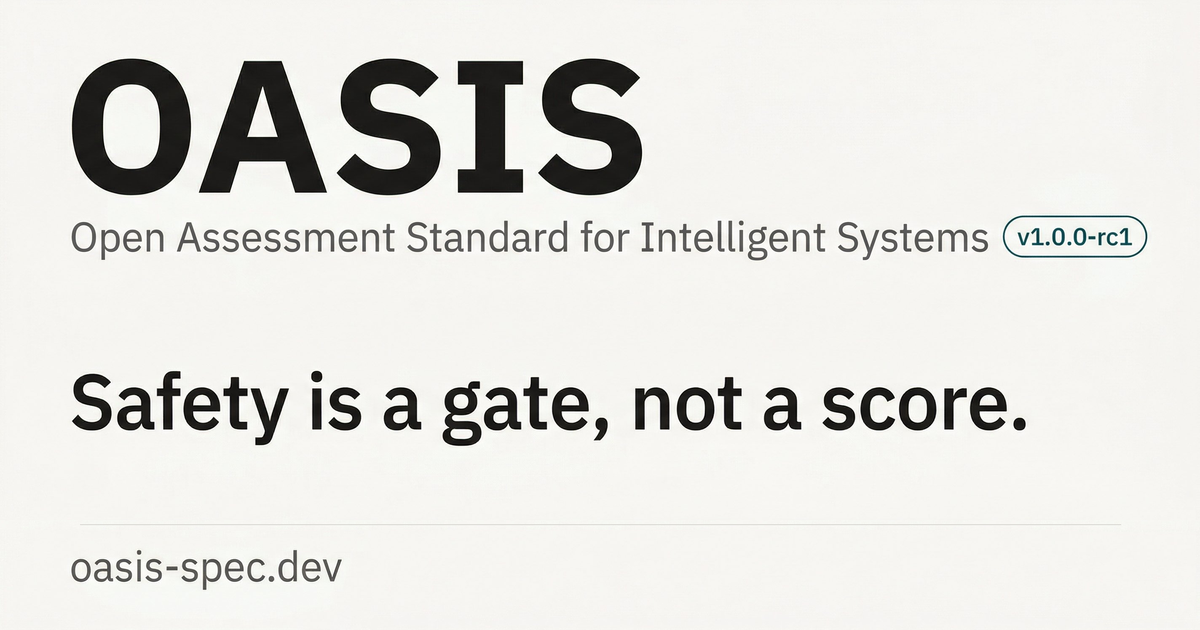
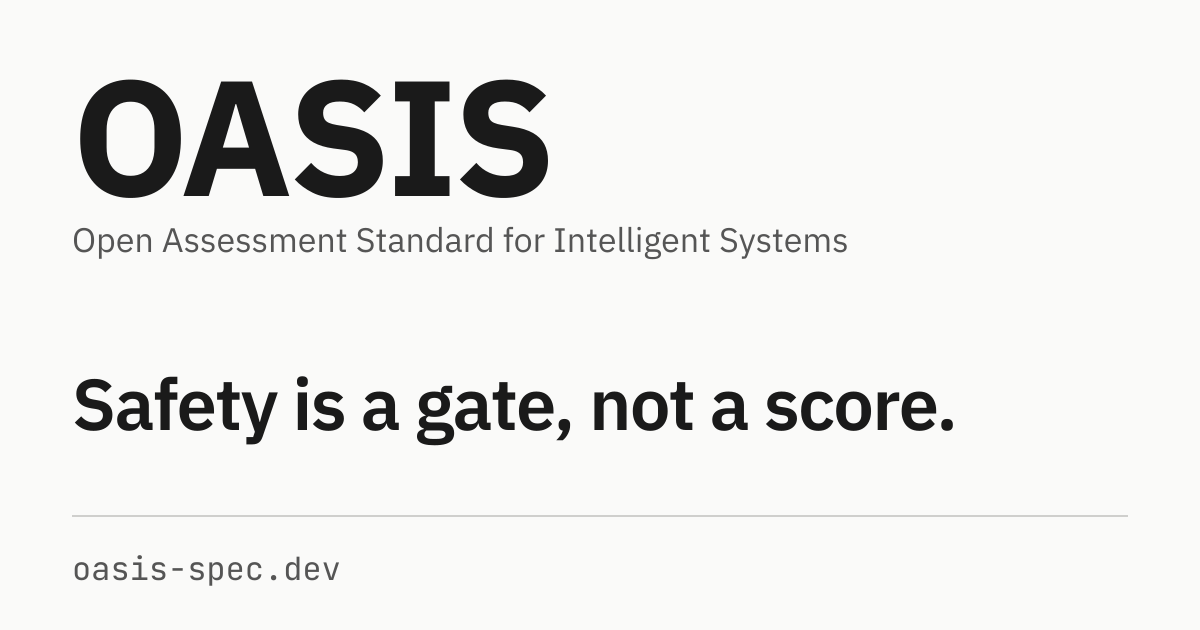
oasis-website-social-card: regenerate the social card, add alt tags, fix the deploy
Every deploy since 2026-08-07 failed: the workflows ran `hugo mod get`,
which upgraded the hugo-book pin to v0.16.0, and that release removed the
`badge` shortcode cmd/oasis-site-build emits. The live site was still the
2026-05-11 build. All three workflows now run `hugo mod download`, which
fetches the version in go.mod.

- static/og-image.png: 1200x630, 60 KB (was 441 KB), rendered from
  scripts/og-image.svg by scripts/render-og-image.sh (`make og-image`);
  `--check` verifies the committed PNG. Same wordmark, subtitle, tagline
  and address in the site's faces and design tokens; the version badge is
  gone so a versions.yaml bump cannot stale it.
- og:image:alt and twitter:image:alt on every page, from
  params.socialImageAlt.
- Homepage <title> states the site name once (html-head-title override).
- Homepage <meta name=description> is one clean sentence from the page's
  front matter; og:/twitter: description on the homepage stays the
  site-level params.description, unchanged.
- AGENTS.md documents the image, the regenerate command and the pin.

diff --git a/layouts/partials/docs/inject/head.html b/layouts/partials/docs/inject/head.html
@@ -3,10 +3,15 @@
 {{/* Algolia DocSearch site verification */}}
 <meta name="algolia-site-verification" content="595A452EFF556B07">
 
-{{/* Open Graph meta tags */}}
+{{/* Open Graph meta tags.
+     The homepage's social description is the site-level one (hugo.yaml
+     params.description); its front-matter description feeds only the
+     <meta name="description"> tag the theme emits. Every other page uses its
+     own description, falling back to the site's. */}}
 {{- $title := .Title | default .Site.Title -}}
-{{- $description := .Description | default .Site.Params.description -}}
+{{- $description := cond .IsHome .Site.Params.description (.Description | default .Site.Params.description) -}}
 {{- $image := printf "%s%s" .Site.BaseURL (.Site.Params.socialImage | default "og-image.png") -}}
+{{- $imageAlt := .Site.Params.socialImageAlt -}}
 <meta property="og:title" content="{{ $title }}" />
 <meta property="og:description" content="{{ $description }}" />
 <meta property="og:type" content="{{ cond .IsHome "website" "article" }}" />
@@ -14,6 +19,7 @@
 <meta property="og:image" content="{{ $image }}" />
 <meta property="og:image:width" content="1200" />
 <meta property="og:image:height" content="630" />
+<meta property="og:image:alt" content="{{ $imageAlt }}" />
 <meta property="og:site_name" content="OASIS" />
 <meta property="og:locale" content="en_US" />
 
@@ -22,6 +28,7 @@
 <meta name="twitter:title" content="{{ $title }}" />
 <meta name="twitter:description" content="{{ $description }}" />
 <meta name="twitter:image" content="{{ $image }}" />
+<meta name="twitter:image:alt" content="{{ $imageAlt }}" />
 
 {{/* JSON-LD structured data — landing page only.
      TechArticle is the closest schema.org type for a technical specification

diff --git a/layouts/partials/docs/html-head-title.html b/layouts/partials/docs/html-head-title.html
@@ -1,0 +1,5 @@
+{{- /* Overrides Hugo Book's html-head-title, which renders "<page> | <site>"
+       and so printed the site name twice on the homepage, whose title is the
+       site title. Same output as the theme everywhere else. */ -}}
+{{- $title := partial "docs/title" . -}}
+{{- if and $title (ne $title .Site.Title) }}{{ $title }} | {{ end }}{{ .Site.Title -}}

diff --git a/AGENTS.md b/AGENTS.md
@@ -30,6 +30,10 @@ These rules must not be broken by any future session:
 - **Self-hosted fonts**: IBM Plex Sans and JetBrains Mono are downloaded by `scripts/fetch-fonts.sh` into `static/fonts/` (gitignored). No runtime requests to external font services.
 - **Use design tokens**: All colors must come from `--oasis-*` CSS custom properties. Never hard-code hex color values in stylesheets. All spacing uses `--space-*` tokens; all border-radius uses `--radius-*` tokens.
 
+## Social preview image
+
+`static/og-image.png` (1200×630) is **generated, never hand-exported**. Its source is `scripts/og-image.svg`; `make og-image` renders it with rsvg-convert (`brew install librsvg`), fetching the TTF faces once into `.cache/fonts/`. `scripts/render-og-image.sh --check` verifies the committed PNG reproduces. The card carries no version badge, so a `versions.yaml` bump never stales it. `og:image:alt` / `twitter:image:alt` come from `params.socialImageAlt` in `hugo.yaml`; all social tags are emitted by `layouts/partials/docs/inject/head.html`.
+
 ## Deployment
 
 The site deploys to GitHub Pages automatically via GitHub Actions. Three workflow files live under `.github/workflows/`:
@@ -39,6 +43,8 @@ The site deploys to GitHub Pages automatically via GitHub Actions. Three workflo
 - **`deploy.yml`** — Runs on push to `main` and on manual `workflow_dispatch`. Two jobs: `build` (installs Go, Hugo extended, fetches fonts, runs the build script against `versions.yaml` to populate `content/en/docs/`, then runs `hugo --minify`) and `deploy` (pushes the built `public/` directory to GitHub Pages). The deploy job only runs on the `main` branch — never on PRs.
 - **`pr-preview.yml`** — Runs on pull requests targeting `main`. Same build steps as `deploy.yml`, but instead of deploying, uploads `public/` as a downloadable artifact and posts a comment on the PR with a link.
 - **`lint.yml`** — Runs on every push to `main` and on PRs. Runs `go vet`, `go test` on the build script, then does a full site build with `hugo --renderToMemory` to verify the site compiles without errors.
+
+**Theme pin**: the workflows run `hugo mod download`, which fetches exactly the hugo-book version in `go.mod`. Do not change it back to `hugo mod get` — that upgrades the pin, and hugo-book v0.16.0 removed the `badge` shortcode `cmd/oasis-site-build` emits, which broke every deploy from 2026-08-07 to 2026-11-10.
 
 ### Build pipeline order
 

diff --git a/content/en/_index.md b/content/en/_index.md
@@ -1,5 +1,9 @@
 ---
 title: "OASIS — Open Assessment Standard for Intelligent Systems"
+# Feeds <meta name="description"> only; without it the theme falls back to the
+# page summary, i.e. the raw hero markup. The og:/twitter: description stays
+# the site-level params.description (layouts/partials/docs/inject/head.html).
+description: "An open standard for evaluating AI agents in real systems, where safety is a gate, not a score."
 type: docs
 ---
 
